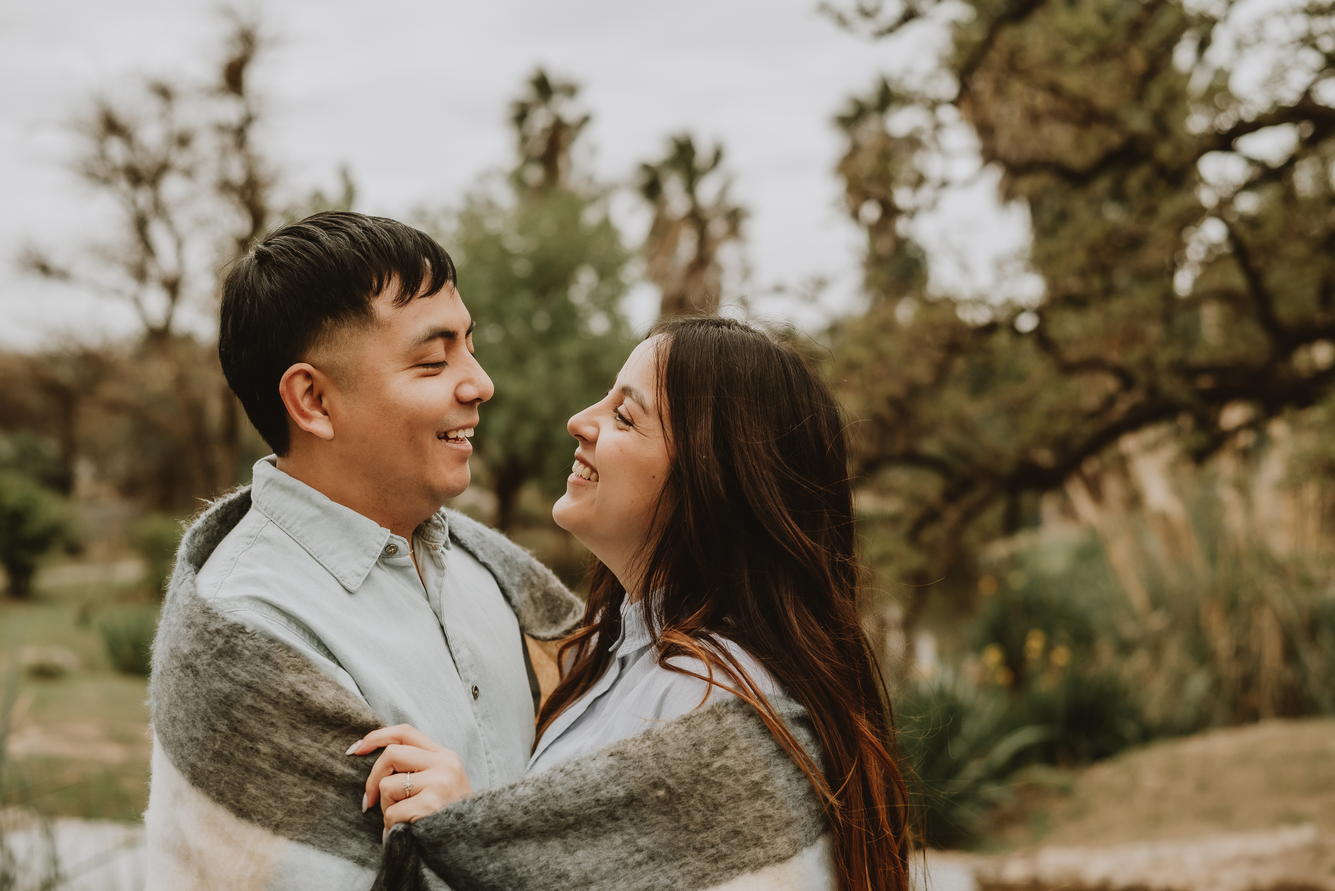
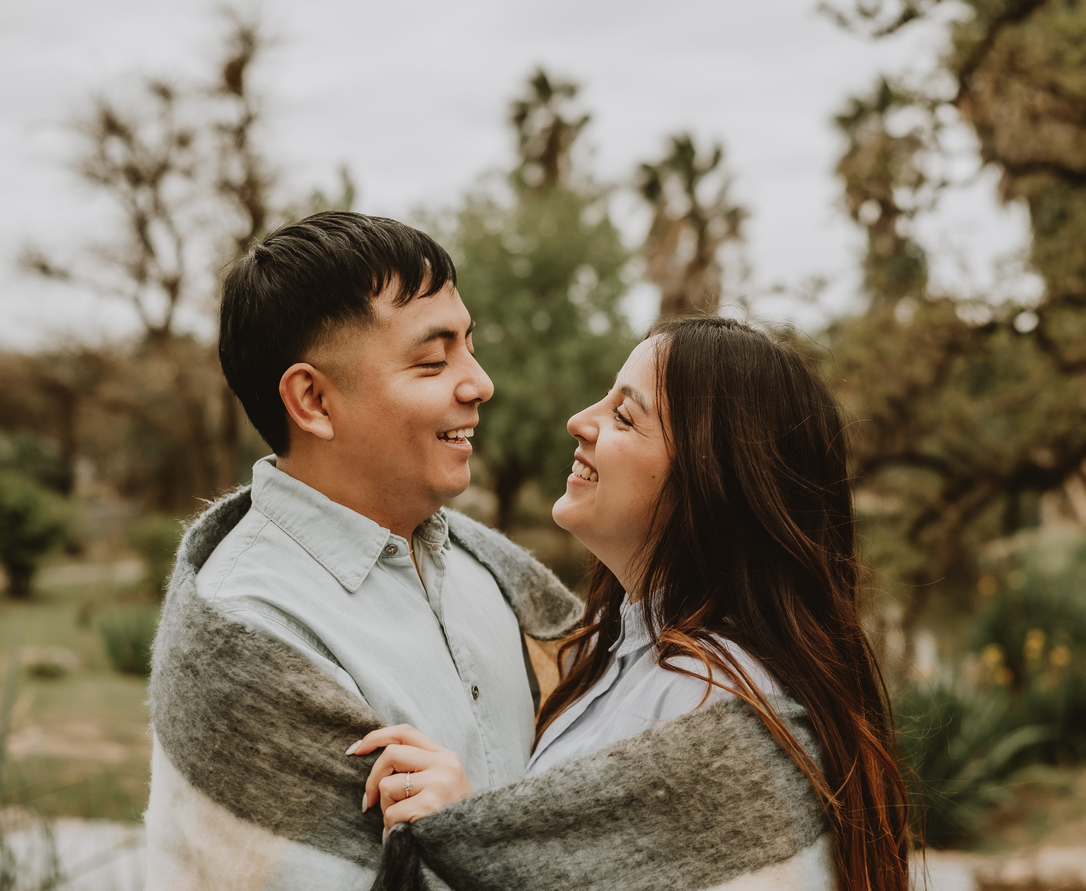
HEMOS CAMBIADO EL COLOR DEL INICIO Y LAS LETRAS DEL FORM

diff --git a/my-wedding-App-/src/App.tsx b/my-wedding-App-/src/App.tsx
@@ -556,7 +556,7 @@ const handleSubmit = async (
           <div className="text-center px-4 animate-fade-in">
             <div className="mb-8">
             </div>
-            <h1 className="font-serif italic text-5xl md:text-7xl text-cream-beige mb-6">
+            <h1 className="font-serif italic text-5xl md:text-7xl text-amber-200 mb-6 ">
                {novios}
             </h1>
             <p className=" font-['Lora'] text-xl md:text-2xl text-white mb-8">
@@ -599,7 +599,7 @@ const handleSubmit = async (
      Nos Casamos
     </div>
 
-    <div className="font-serif italic text-5xl md:text-7xl my-8">
+    <div className="font-serif italic text-5xl md:text-7xl my-8 ">
      {novios}
     </div>
 
@@ -646,6 +646,7 @@ const handleSubmit = async (
     </div>
   </div>
 </section>
+
        {/* Date & Time Section */}
 <section
   className="py-12 md:py-24 relative overflow-hidden"
@@ -659,13 +660,7 @@ const handleSubmit = async (
     }}
   />
 
-  {/* Capa 2: Animación superpuesta sin zoom agresivo en mobile */}
-  <div
-    className="absolute inset-0 bg-cover bg-center sm:animate-subtle-zoom opacity-60 pointer-events-none"
-    style={{
-      backgroundImage: `url('DSC_605.JPG')`
-    }}
-  />
+
 
   <div className="container mx-auto px-4 relative z-10">
     <h2 className={`font-serif italic text-4xl md:text-6xl text-center text-dark-espresso mb-12 ${dateTimeVisible ? 'animate-fade-in-up' : 'opacity-0'}`}>
@@ -1205,132 +1200,132 @@ Con mucha alegría, queremos celebrar este día junto a quienes amamos y son par
                 </p>
               </div>
 
-              {/* Formulario de RSVP */}
-              <form onSubmit={handleSubmit} className="space-y-6">
-                {/* Nombre completo */}
-                <div>
-                  <label htmlFor="nombre" className="block text-sm font-medium text-gray-700 mb-2">
-                    Nombres de asistentes*
-                  </label>
-                  <input
-                    type="text"
-                    id="nombre"
-                    name="nombre"
-                    required
-                    value={formData.nombre}
-                    onChange={handleInputChange}
-                    className="w-full px-4 py-3 border border-gray-300 rounded-lg focus:ring-2 focus:ring-warm-taupe focus:border-warm-taupe transition placeholder:text-gray-400"
-                    placeholder="Juan Pérez, María Gómez, Pedro López"
-                  />
-                </div>
+           {/* Formulario de RSVP */}
+<form onSubmit={handleSubmit} className="space-y-6">
+  {/* Nombre completo */}
+  <div>
+    <label htmlFor="nombre" className="block text-sm font-medium text-gray-700 mb-2">
+      Nombres de asistentes*
+    </label>
+    <input
+      type="text"
+      id="nombre"
+      name="nombre"
+      required
+      value={formData.nombre}
+      onChange={handleInputChange}
+      className="w-full px-4 py-3 border border-gray-300 rounded-lg focus:ring-2 focus:ring-warm-taupe focus:border-warm-taupe transition placeholder:text-gray-400 text-gray-900 bg-white"
+      placeholder="Juan Pérez, María Gómez, Pedro López"
+    />
+  </div>
 
-                {/* Email 
-                <div>
-                  <label htmlFor="email" className="block text-sm font-medium text-gray-700 mb-2">
-                    Email *
-                  </label>
-                  <input
-                    type="email"
-                    id="email"
-                    name="email"
-                    required
-                    value={formData.email}
-                    onChange={handleInputChange}
-                    className="w-full px-4 py-3 border border-gray-300 rounded-lg focus:ring-2 focus:ring-warm-taupe focus:border-warm-taupe transition placeholder:text-gray-400"
-                    placeholder="tu@email.com"
-                  />
-                </div>*/}
+  {/* Email 
+  <div>
+    <label htmlFor="email" className="block text-sm font-medium text-gray-700 mb-2">
+      Email *
+    </label>
+    <input
+      type="email"
+      id="email"
+      name="email"
+      required
+      value={formData.email}
+      onChange={handleInputChange}
+      className="w-full px-4 py-3 border border-gray-300 rounded-lg focus:ring-2 focus:ring-warm-taupe focus:border-warm-taupe transition placeholder:text-gray-400 text-gray-900 bg-white"
+      placeholder="tu@email.com"
+    />
+  </div>*/}
 
-                {/* Teléfono */}
-                <div>
-                  <label htmlFor="telefono" className="block text-sm font-medium text-gray-700 mb-2">
-                    Teléfono
-                  </label>
-                  <input
-                    type="tel"
-                    id="telefono"
-                    name="telefono"
-                    value={formData.telefono}
-                    onChange={handleInputChange}
-                    className="w-full px-4 py-3 border border-gray-300 rounded-lg focus:ring-2 focus:ring-warm-taupe focus:border-warm-taupe transition placeholder:text-gray-400"
-                    placeholder="+52 123 456 7890"
-                  />
-                </div>
+  {/* Teléfono */}
+  <div>
+    <label htmlFor="telefono" className="block text-sm font-medium text-gray-700 mb-2">
+      Teléfono
+    </label>
+    <input
+      type="tel"
+      id="telefono"
+      name="telefono"
+      value={formData.telefono}
+      onChange={handleInputChange}
+      className="w-full px-4 py-3 border border-gray-300 rounded-lg focus:ring-2 focus:ring-warm-taupe focus:border-warm-taupe transition placeholder:text-gray-400 text-gray-900 bg-white"
+      placeholder="+52 123 456 7890"
+    />
+  </div>
 
-                {/* Asistencia */}
-                <div>
-                  <label htmlFor="asistencia" className="block text-sm font-medium text-gray-700 mb-2">
-                    ¿Podrás asistir? *
-                  </label>
-                  <select
-                    id="asistencia"
-                    name="asistencia"
-                    required
-                    value={formData.asistencia}
-                    onChange={handleInputChange}
-                    className="w-full px-4 py-3 border border-gray-300 rounded-lg focus:ring-2 focus:ring-warm-taupe focus:border-warm-taupe transition text-gray-900"
-                  >
-                    <option value="si">Sí, confirmo asistencia ✓</option>
-                    <option value="no">No, no podré asistir</option>
-                  </select>
-                </div>
+  {/* Asistencia */}
+  <div>
+    <label htmlFor="asistencia" className="block text-sm font-medium text-gray-700 mb-2">
+      ¿Podrás asistir? *
+    </label>
+    <select
+      id="asistencia"
+      name="asistencia"
+      required
+      value={formData.asistencia}
+      onChange={handleInputChange}
+      className="w-full px-4 py-3 border border-gray-300 rounded-lg focus:ring-2 focus:ring-warm-taupe focus:border-warm-taupe transition text-gray-900 bg-white"
+    >
+      <option value="si">Sí, confirmo asistencia ✓</option>
+      <option value="no">No, no podré asistir</option>
+    </select>
+  </div>
 
-                {/* Número de acompañantes 
-                <div>
-                  <label htmlFor="numeroAcompanantes" className="block text-sm font-medium text-gray-700 mb-2">
-                    Número de acompañantes
-                  </label>
-                  <select
-                    id="numeroAcompanantes"
-                    name="numeroAcompanantes"
-                    value={formData.numeroAcompanantes}
-                    onChange={handleInputChange}
-                    className="w-full px-4 py-3 border border-gray-300 rounded-lg focus:ring-2 focus:ring-warm-taupe focus:border-warm-taupe transition text-gray-900"
-                  >
-                    <option value="0">Solo yo</option>
-                    <option value="1">1 acompañante</option>
-                    <option value="2">2 acompañantes</option>
-                    <option value="3">3 acompañantes</option>
-                    <option value="4">4+ acompañantes</option>
-                  </select>
-                </div>*/}
+  {/* Número de acompañantes 
+  <div>
+    <label htmlFor="numeroAcompanantes" className="block text-sm font-medium text-gray-700 mb-2">
+      Número de acompañantes
+    </label>
+    <select
+      id="numeroAcompanantes"
+      name="numeroAcompanantes"
+      value={formData.numeroAcompanantes}
+      onChange={handleInputChange}
+      className="w-full px-4 py-3 border border-gray-300 rounded-lg focus:ring-2 focus:ring-warm-taupe focus:border-warm-taupe transition text-gray-900 bg-white"
+    >
+      <option value="0">Solo yo</option>
+      <option value="1">1 acompañante</option>
+      <option value="2">2 acompañantes</option>
+      <option value="3">3 acompañantes</option>
+      <option value="4">4+ acompañantes</option>
+    </select>
+  </div>*/}
 
-                {/* Alergias */}
-                <div>
-                  <label htmlFor="alergias" className="block text-sm font-medium text-gray-700 mb-2">
-                    ¿Tienes alguna alergia alimentaria?
-                  </label>
-                  <input
-                    type="text"
-                    id="alergias"
-                    name="alergias"
-                    value={formData.alergias}
-                    onChange={handleInputChange}
-                    className="w-full px-4 py-3 border border-gray-300 rounded-lg focus:ring-2 focus:ring-warm-taupe focus:border-warm-taupe transition placeholder:text-gray-400"
-                    placeholder="Ej: Nueces, mariscos, lácteos..."
-                  />
-                </div>
+  {/* Alergias */}
+  <div>
+    <label htmlFor="alergias" className="block text-sm font-medium text-gray-700 mb-2">
+      ¿Tienes alguna alergia alimentaria?
+    </label>
+    <input
+      type="text"
+      id="alergias"
+      name="alergias"
+      value={formData.alergias}
+      onChange={handleInputChange}
+      className="w-full px-4 py-3 border border-gray-300 rounded-lg focus:ring-2 focus:ring-warm-taupe focus:border-warm-taupe transition placeholder:text-gray-400 text-gray-900 bg-white"
+      placeholder="Ej: Nueces, mariscos, lácteos..."
+    />
+  </div>
 
-                {/* Dieta especial */}
-                <div>
-                  <label htmlFor="dietaEspecial" className="block text-sm font-medium text-gray-700 mb-2">
-                    Preferencia alimentaria
-                  </label>
-                  <select
-                    id="dietaEspecial"
-                    name="dietaEspecial"
-                    value={formData.dietaEspecial}
-                    onChange={handleInputChange}
-                    className="w-full px-4 py-3 border border-gray-300 rounded-lg focus:ring-2 focus:ring-warm-taupe focus:border-warm-taupe transition text-gray-900"
-                  >
-                    <option value="ninguna">Ninguna</option>
-                    <option value="vegetariano">Vegetariano</option>
-                    <option value="vegano">Vegano</option>
-                    <option value="sinGluten">Sin gluten</option>
-                    <option value="otra">Otra</option>
-                  </select>
-                </div>
-
+  {/* Dieta especial */}
+  <div>
+    <label htmlFor="dietaEspecial" className="block text-sm font-medium text-gray-700 mb-2">
+      Preferencia alimentaria
+    </label>
+    <select
+      id="dietaEspecial"
+      name="dietaEspecial"
+      value={formData.dietaEspecial}
+      onChange={handleInputChange}
+      className="w-full px-4 py-3 border border-gray-300 rounded-lg focus:ring-2 focus:ring-warm-taupe focus:border-warm-taupe transition text-gray-900 bg-white"
+    >
+      <option value="ninguna">Ninguna</option>
+      <option value="vegetariano">Vegetariano</option>
+      <option value="vegano">Vegano</option>
+      <option value="sinGluten">Sin gluten</option>
+      <option value="otra">Otra</option>
+    </select>
+  </div>
+</form>
                 
 
                 {/* Estado del formulario */}

diff --git a/my-wedding-App-/index.html b/my-wedding-App-/index.html
@@ -1,6 +1,7 @@
 <!doctype html>
 <html lang="en">
   <head>
+    <meta name="color-scheme" content="light" />
     <meta charset="UTF-8" />
     <link rel="icon" type="image/x-icon" href="/pareja-de-boda.ico" />
     <meta name="viewport" content="width=device-width, initial-scale=1.0" />
